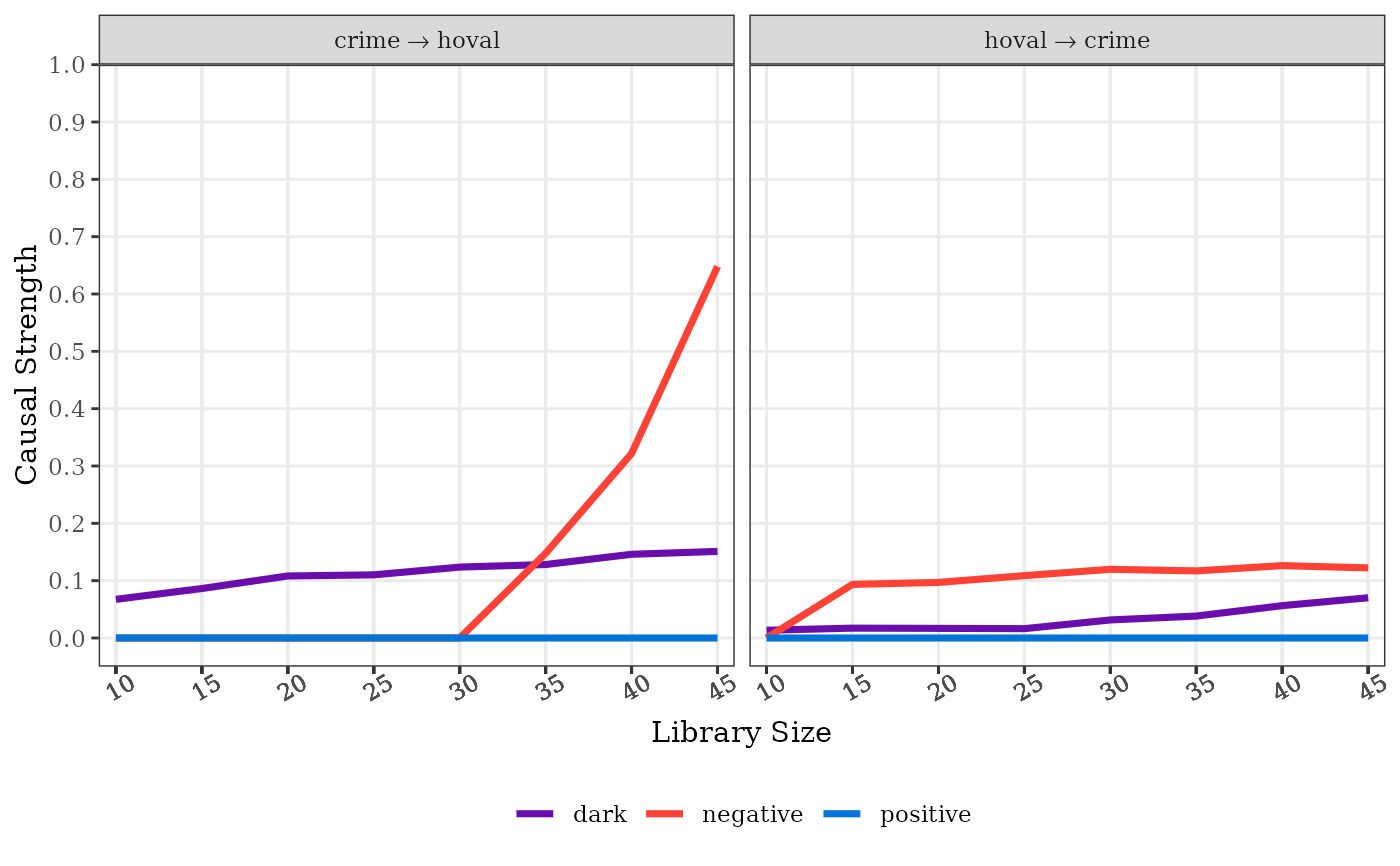
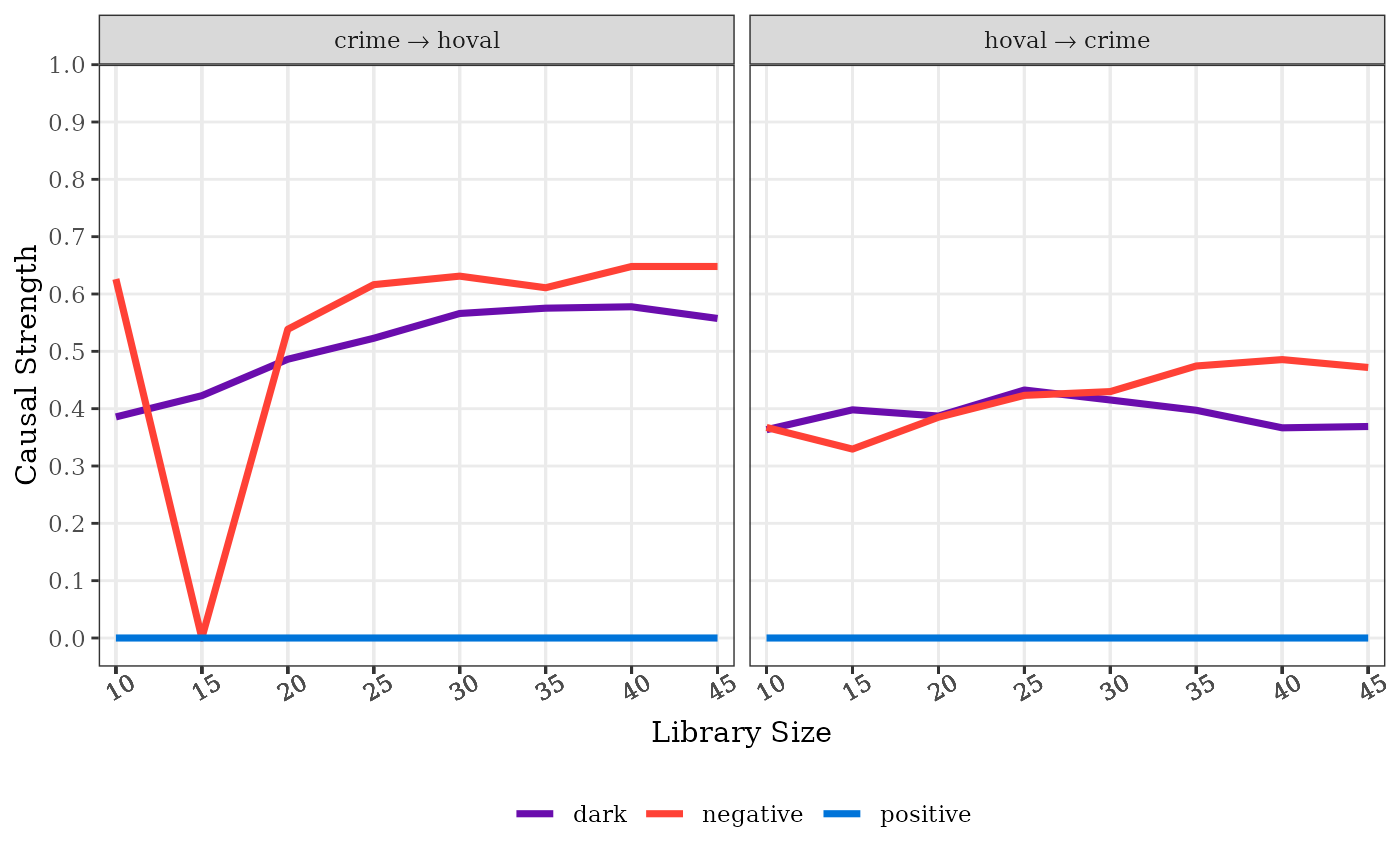
Deploying to gh-pages from @ SpatLyu/spEDM@5a6a6a5e23ad78b91183af8e95ccfd61f3fcae66 🚀

diff --git a/reference/gpc.html b/reference/gpc.html
@@ -243,13 +243,13 @@
     <div class="sourceCode"><pre class="sourceCode r"><code><span class="r-in"><span><span class="va">columbus</span> <span class="op">=</span> <span class="fu">sf</span><span class="fu">::</span><span class="fu"><a href="https://r-spatial.github.io/sf/reference/st_read.html" class="external-link">read_sf</a></span><span class="op">(</span><span class="fu"><a href="https://rdrr.io/r/base/system.file.html" class="external-link">system.file</a></span><span class="op">(</span><span class="st">"case/columbus.gpkg"</span>,package<span class="op">=</span><span class="st">"spEDM"</span><span class="op">)</span><span class="op">)</span></span></span>
 <span class="r-in"><span><span class="co"># \donttest{</span></span></span>
 <span class="r-in"><span><span class="fu">spEDM</span><span class="fu">::</span><span class="fu">gpc</span><span class="op">(</span><span class="va">columbus</span>,<span class="st">"hoval"</span>,<span class="st">"crime"</span>,E <span class="op">=</span> <span class="fl">6</span>,k <span class="op">=</span> <span class="fl">9</span><span class="op">)</span></span></span>
-<span class="r-out co"><span class="r-pr">#&gt;</span>       type   strength      direction</span>
-<span class="r-out co"><span class="r-pr">#&gt;</span> 1 positive        NaN hoval -&gt; crime</span>
-<span class="r-out co"><span class="r-pr">#&gt;</span> 2 negative 0.12226140 hoval -&gt; crime</span>
-<span class="r-out co"><span class="r-pr">#&gt;</span> 3     dark 0.08292105 hoval -&gt; crime</span>
-<span class="r-out co"><span class="r-pr">#&gt;</span> 4 positive        NaN crime -&gt; hoval</span>
-<span class="r-out co"><span class="r-pr">#&gt;</span> 5 negative 0.64799884 crime -&gt; hoval</span>
-<span class="r-out co"><span class="r-pr">#&gt;</span> 6     dark 0.15444661 crime -&gt; hoval</span>
+<span class="r-out co"><span class="r-pr">#&gt;</span>       type  strength      direction</span>
+<span class="r-out co"><span class="r-pr">#&gt;</span> 1 positive       NaN hoval -&gt; crime</span>
+<span class="r-out co"><span class="r-pr">#&gt;</span> 2 negative 0.4718467 hoval -&gt; crime</span>
+<span class="r-out co"><span class="r-pr">#&gt;</span> 3     dark 0.3656227 hoval -&gt; crime</span>
+<span class="r-out co"><span class="r-pr">#&gt;</span> 4 positive       NaN crime -&gt; hoval</span>
+<span class="r-out co"><span class="r-pr">#&gt;</span> 5 negative 0.6479988 crime -&gt; hoval</span>
+<span class="r-out co"><span class="r-pr">#&gt;</span> 6     dark 0.5395169 crime -&gt; hoval</span>
 <span class="r-in"><span></span></span>
 <span class="r-in"><span><span class="co"># convergence diagnostics</span></span></span>
 <span class="r-in"><span><span class="va">g</span> <span class="op">=</span> <span class="fu">spEDM</span><span class="fu">::</span><span class="fu">gpc</span><span class="op">(</span><span class="va">columbus</span>,<span class="st">"hoval"</span>,<span class="st">"crime"</span>,libsizes <span class="op">=</span> <span class="fu"><a href="https://rdrr.io/r/base/seq.html" class="external-link">seq</a></span><span class="op">(</span><span class="fl">5</span>,<span class="fl">45</span>,<span class="fl">5</span><span class="op">)</span>,E <span class="op">=</span> <span class="fl">6</span>,k <span class="op">=</span> <span class="fl">9</span><span class="op">)</span></span></span>

diff --git a/reference/pc.html b/reference/pc.html
@@ -201,7 +201,7 @@
     <div class="sourceCode"><pre class="sourceCode r"><code><span class="r-in"><span><span class="va">columbus</span> <span class="op">=</span> <span class="fu">sf</span><span class="fu">::</span><span class="fu"><a href="https://r-spatial.github.io/sf/reference/st_read.html" class="external-link">read_sf</a></span><span class="op">(</span><span class="fu"><a href="https://rdrr.io/r/base/system.file.html" class="external-link">system.file</a></span><span class="op">(</span><span class="st">"case/columbus.gpkg"</span>,package<span class="op">=</span><span class="st">"spEDM"</span><span class="op">)</span><span class="op">)</span></span></span>
 <span class="r-in"><span><span class="co"># \donttest{</span></span></span>
 <span class="r-in"><span><span class="fu">spEDM</span><span class="fu">::</span><span class="fu">pc</span><span class="op">(</span><span class="va">columbus</span>,<span class="st">"hoval"</span>,<span class="st">"crime"</span>,E <span class="op">=</span> <span class="fl">5</span><span class="op">:</span><span class="fl">10</span>,maximize <span class="op">=</span> <span class="st">"negative"</span><span class="op">)</span></span></span>
-<span class="r-out co"><span class="r-pr">#&gt;</span> The suggested E,k,tau for variable crime is 7, 8 and 1 </span>
+<span class="r-out co"><span class="r-pr">#&gt;</span> The suggested E,k,tau for variable crime is 5, 10 and 1 </span>
 <span class="r-in"><span><span class="co"># }</span></span></span>
 </code></pre></div>
     </div>

diff --git a/reference/gpc.md b/reference/gpc.md
@@ -201,13 +201,13 @@ patterns. International Journal of Geographical Information Science
 columbus = sf::read_sf(system.file("case/columbus.gpkg",package="spEDM"))
 # \donttest{
 spEDM::gpc(columbus,"hoval","crime",E = 6,k = 9)
-#>       type   strength      direction
-#> 1 positive        NaN hoval -> crime
-#> 2 negative 0.12226140 hoval -> crime
-#> 3     dark 0.08292105 hoval -> crime
-#> 4 positive        NaN crime -> hoval
-#> 5 negative 0.64799884 crime -> hoval
-#> 6     dark 0.15444661 crime -> hoval
+#>       type  strength      direction
+#> 1 positive       NaN hoval -> crime
+#> 2 negative 0.4718467 hoval -> crime
+#> 3     dark 0.3656227 hoval -> crime
+#> 4 positive       NaN crime -> hoval
+#> 5 negative 0.6479988 crime -> hoval
+#> 6     dark 0.5395169 crime -> hoval
 
 # convergence diagnostics
 g = spEDM::gpc(columbus,"hoval","crime",libsizes = seq(5,45,5),E = 6,k = 9)

diff --git a/reference/pc.md b/reference/pc.md
@@ -158,6 +158,6 @@ National Academy of Sciences 117, 7599–7605.
 columbus = sf::read_sf(system.file("case/columbus.gpkg",package="spEDM"))
 # \donttest{
 spEDM::pc(columbus,"hoval","crime",E = 5:10,maximize = "negative")
-#> The suggested E,k,tau for variable crime is 7, 8 and 1 
+#> The suggested E,k,tau for variable crime is 5, 10 and 1 
 # }
 ```